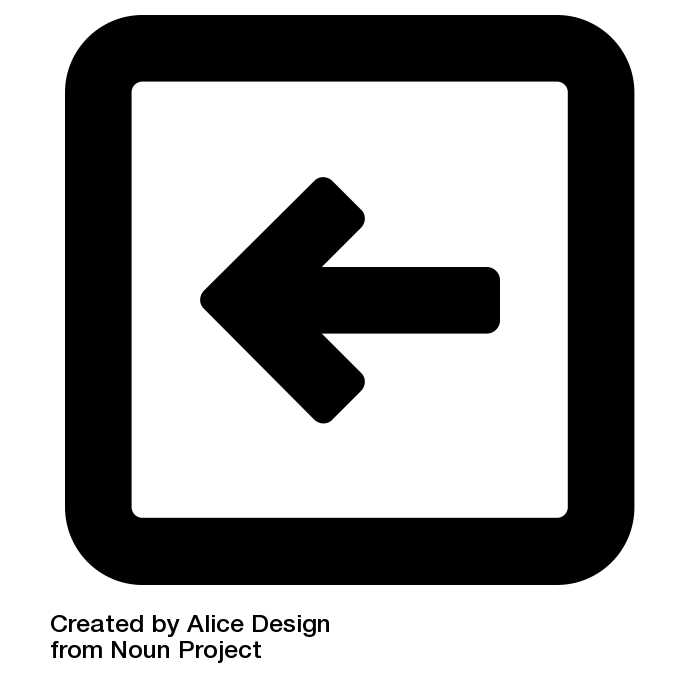
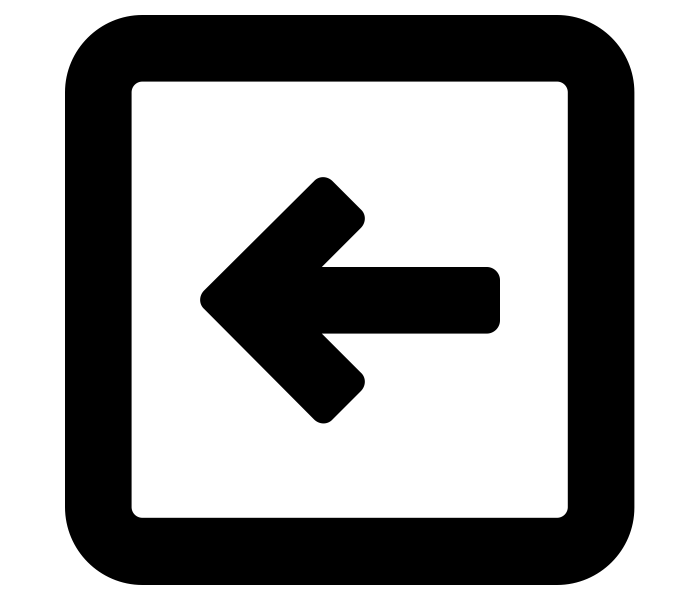
Activity 6

diff --git a/js/main.js b/js/main.js
@@ -7,7 +7,7 @@ function createMap(){
     map = L.map('mapid', {
         center: [36.20, 138.25],
         zoom: 2,
-        minZoom: 5,
+        minZoom: 4.7,
         maxBounds: [(25.2, 115.7), (45.7, 155.54)],
         pitch: 60,
         bearing: -60
@@ -17,7 +17,7 @@ function createMap(){
     L.tileLayer('https://{s}.basemaps.cartocdn.com/dark_nolabels/{z}/{x}/{y}{r}.png', {
     	attribution: '&copy; <a href="https://www.openstreetmap.org/copyright">OpenStreetMap</a> contributors &copy; <a href="https://carto.com/attributions">CARTO</a>',
     	subdomains: 'abcd',
-    	maxZoom: 19
+    	maxZoom: 30
     }).addTo(map);
 
     //call getData function
@@ -109,10 +109,10 @@ function createSequenceControls(attributes){
         console.log(index);
         updatePropSymbols(attributes[index]);
     });
-    $('#panel').append('<button class="step" id="reverse">Reverse</button>');
+    $('#panel').append('<button class="step" id="reverse">Reverse</button>');//appending button classes to panel
     $('#panel').append('<button class="step" id="forward">Forward</button>');
-    $('#reverse').html('<img src="img/left_arrow.png">');
-    $('#forward').html('<img src="img/right_arrow.png">');
+    $('#reverse').html('<img src="img/left_arrow.svg">'); // linking each button to the appropriate svg
+    $('#forward').html('<img src="img/right_arrow.svg">');
     //Step 5: click listener for buttons
     $('.step').click(function(){
             //get the old index value
@@ -135,10 +135,11 @@ function createSequenceControls(attributes){
             //Called in both step button and slider event listener handlers
            //Step 9: pass new attribute to update symbols
            console.log(attributes)
-            updatePropSymbols(attributes[index]);
+            updatePropSymbols(attributes[index]); //calling updatePropSymbols function and can only pass in attributes since it was defined in the callback ajax function
         });
 
 //Step 10: Resize proportional symbols according to new attribute values
+// updates prop symbols to be in sync with slider position
 function updatePropSymbols(attribute){
     map.eachLayer(function(layer){
         if (layer.feature && layer.feature.properties[attribute]){
@@ -167,13 +168,13 @@ function updatePropSymbols(attribute){
 
 function processData(data){
     //empty array to hold attributes
-    var attributes = [];
+    var attributes = []; //setting the attributes array to prepare the values needed for the other functions within the getData function
 
     //properties of the first feature in the dataset
     var properties = data.features[0].properties;
 
     //push each attribute name into attributes array
-    for (var attribute in properties){
+    for (var attribute in properties){ // looping through values with an index of "Pop" and pushing them to the array if they have a value greater than 0
         //only take attributes with population values
         if (attribute.indexOf("Pop") > -1){
             attributes.push(attribute);
@@ -183,7 +184,7 @@ function processData(data){
     //check result
     console.log(attributes);
 
-    return attributes;
+    return attributes; //returns attributes array to be used in callback
 };
 
 //function to retrieve the data and place it on the map

diff --git a/css/style.css b/css/style.css
@@ -1,6 +1,9 @@
 #mapid {
+  position: relative;
   width: 100vw;
   height: 80vh;
+  border-color: white;
+  border-radius: 10px;
 }
 
 .leaflet-popup-content p {
@@ -13,25 +16,31 @@ layer.bindPopup(popupContent, {
 
 
 #panel {
-   max-width: 25%;
-   padding: 20px;
-   display: inline-block;
-   vertical-align: top;
-   text-align: center;
-   line-height: 42px;
-   overflow: hidden;
+  position: absolute;
+  max-width: 25%;
+  padding: 20px;
+  display: inline-block;
+  vertical-align: top;
+  text-align: center;
+  line-height: 42px;
+  overflow: hidden;
 }
 
 .range-slider {
    width: 25%;
+   color: white;
 }
 
 .step {
 	width: 7.5%;
+  background: #262626;
+  border-radius: 10px;
 }
 
 .step img {
 	width: 100%;
+  background: #262626;
+  border-radius: 10px;
 }
 
 

diff --git a/index.html b/index.html
@@ -16,7 +16,7 @@
              place these within <style> tags-->
 
     </head>
-    <body>
+    <body style="background-color: #262626;">
         <!--put your initial page content here-->
         <div id="mapid"></div>
 
@@ -29,5 +29,9 @@
         <script type="text/javascript" src="js/main.js"></script>
 
         <div id="panel"</div>
+          <p style="color: white; font-size: 8px"> Arrow Icons Created by Alice Design </p>
     </body>
 </html>
+
+
+<!-- <p style="font-family:courier;">This is a paragraph.</p> -->
